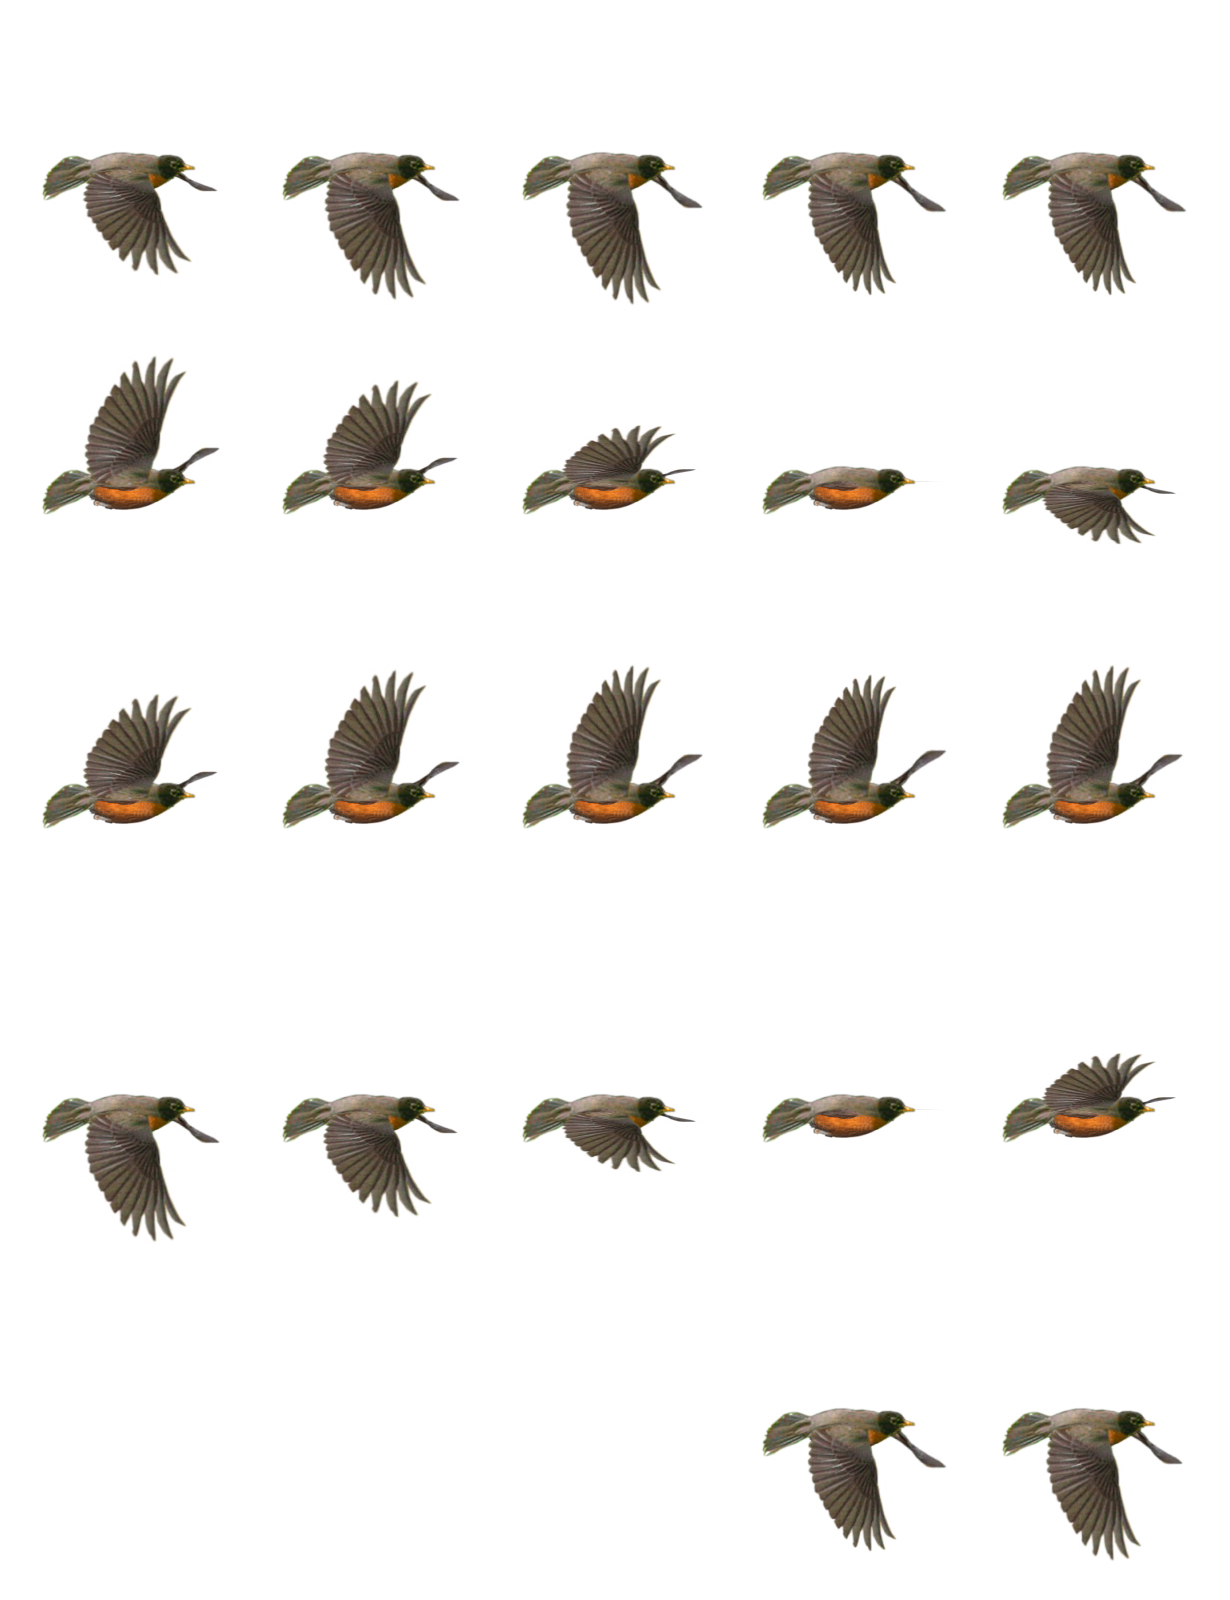
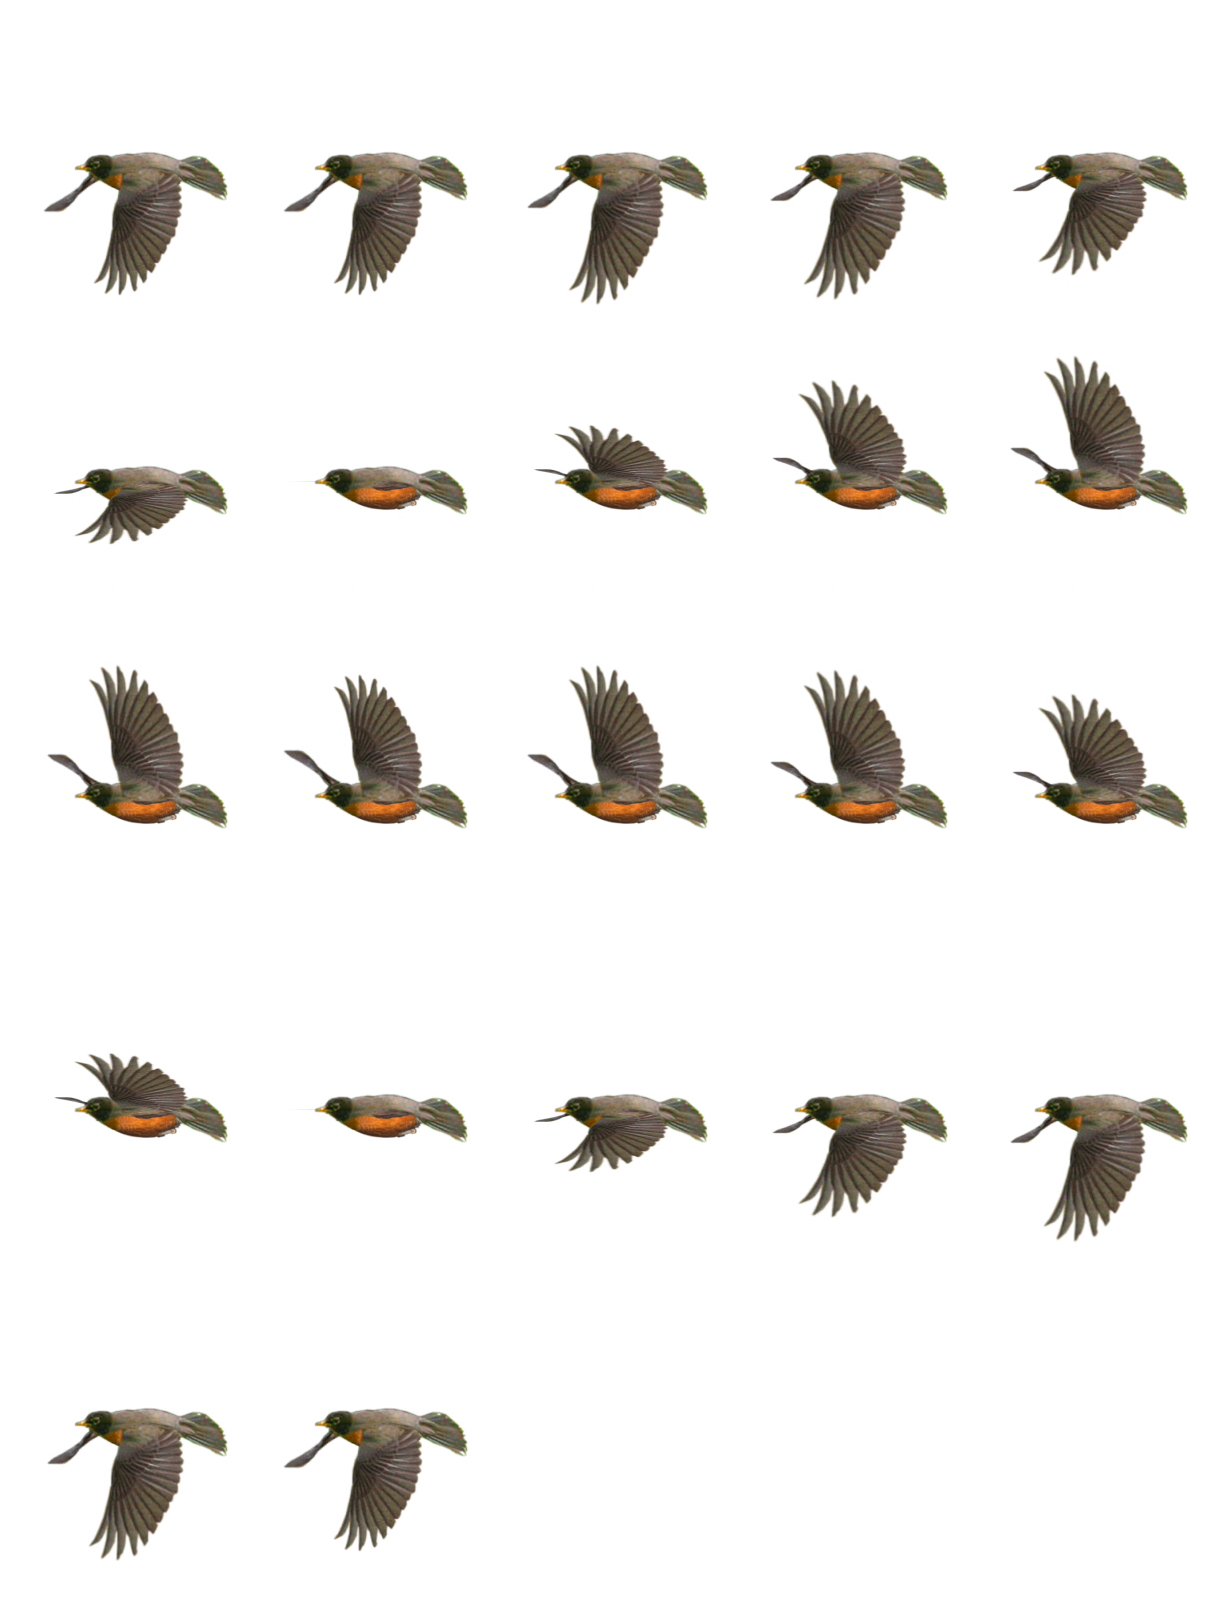
[✅] bird follow & anim

diff --git a/server/public/js/modes/Multijoueur.js b/server/public/js/modes/Multijoueur.js
@@ -331,7 +331,8 @@ export default class Multijoueur extends Phaser.Scene {
 
             self.bird.scale = players[id].scale + 0.4;
             self.bird.depth = players[id].depth;
-            self.bird.flipX = players[id].flipX;
+            // console.log(player.flipX);
+            self.bird.flipX = !players[id].flipX;
             player.flipX = (players[id].flipX);
             player.setScale(players[id].scale);
             player.setPosition(players[id].x, players[id].y);
